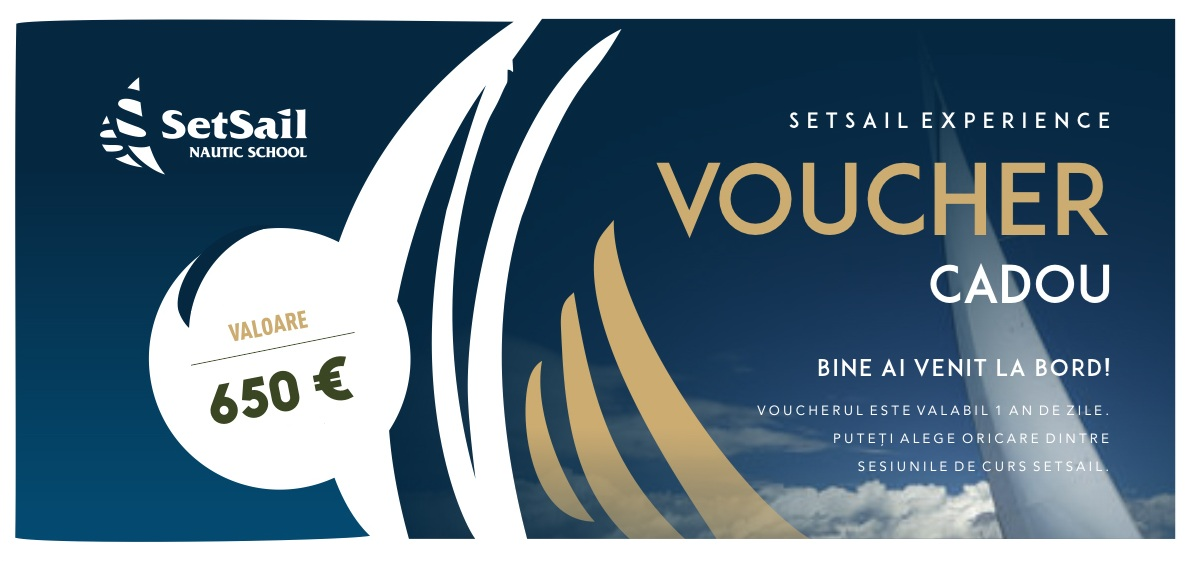
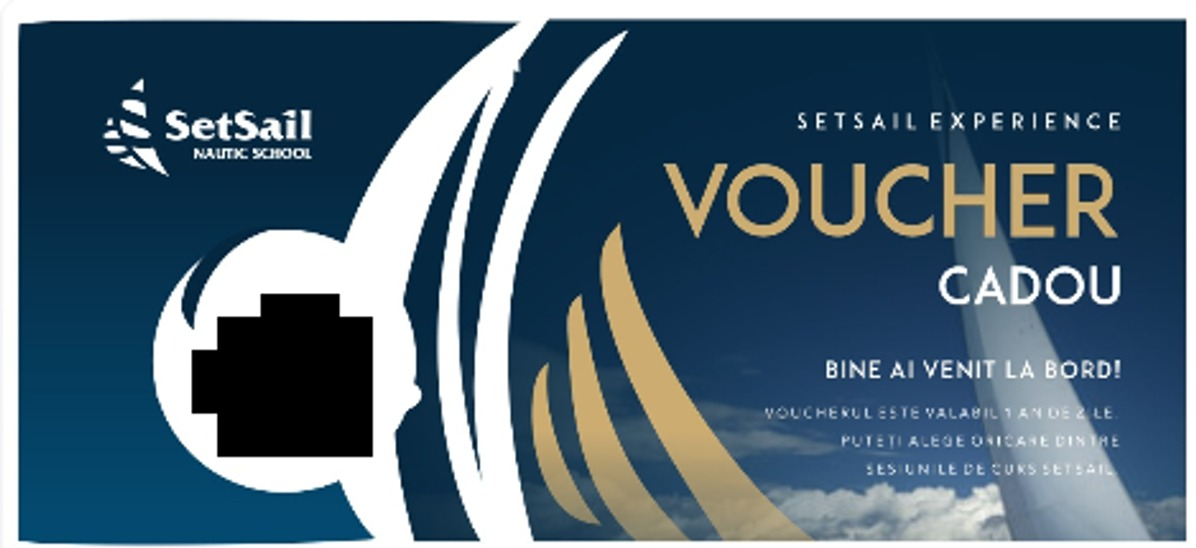
feat(voucher-valoric): clean circle template, write only the amount (no VALOARE/euro)
- replaced valoric.jpg with the clean design (empty circle)
- amount centered in the detected circle (0.255, 0.526), no euro symbol appended

Changed region(s): [[0.0, 0.031, 1.0, 1.0], [0.0619, 0.1241, 0.2784, 0.3102], [0.3403, 0.9307, 0.4022, 0.9927]]

diff --git a/app/emite-voucher-cadou/page.tsx b/app/emite-voucher-cadou/page.tsx
@@ -23,7 +23,8 @@ const POS: any = {
     orar: { x: 0.762, y: 0.57, size: 0.05 },
   },
   valoric: {
-    suma: { x: 0.238, y: 0.72, cy: 0.70, rw: 0.11, rh: 0.06, size: 0.11 },
+    // cerc alb detectat în template: centru (0.255, 0.526)
+    suma: { x: 0.255, y: 0.526, size: 0.12 },
     name: { x: 0.72, y: 0.60, size: 0.075 },
     obs: { x: 0.72, y: 0.14, size: 0.032 },
   },
@@ -69,12 +70,11 @@ function EmiteVoucherInner() {
     const P = POS[tip]
     const full = `${form.nume} ${form.prenume}`.trim()
     if (tip === 'valoric') {
-      // acoperă suma tipărită și rescrie
-      ctx.save(); ctx.fillStyle = '#ffffff'; ctx.beginPath()
-      ctx.ellipse(P.suma.x * W, P.suma.cy * H, P.suma.rw * W, P.suma.rh * H, 0, 0, Math.PI * 2); ctx.fill(); ctx.restore()
-      ctx.textAlign = 'center'; ctx.textBaseline = 'alphabetic'
+      // cercul alb e gol în template — scriem doar suma (fără „€"), centrată în cerc
+      ctx.textAlign = 'center'; ctx.textBaseline = 'middle'
       ctx.fillStyle = GOLD; ctx.font = `bold ${P.suma.size * H}px Arial`
-      ctx.fillText(`${(form.suma || '').trim() || '650'} €`, P.suma.x * W, P.suma.y * H)
+      ctx.fillText(`${(form.suma || '').trim() || '650'}`, P.suma.x * W, P.suma.y * H)
+      ctx.textBaseline = 'alphabetic'
       if (full) { ctx.fillStyle = GOLD; ctx.font = `italic ${P.name.size * H}px Georgia, serif`; ctx.fillText(full, P.name.x * W, P.name.y * H) }
       if (form.observatii) { ctx.fillStyle = '#e8e2d0'; ctx.font = `italic ${P.obs.size * H}px Georgia, serif`; ctx.fillText(form.observatii, P.obs.x * W, P.obs.y * H) }
     } else {
